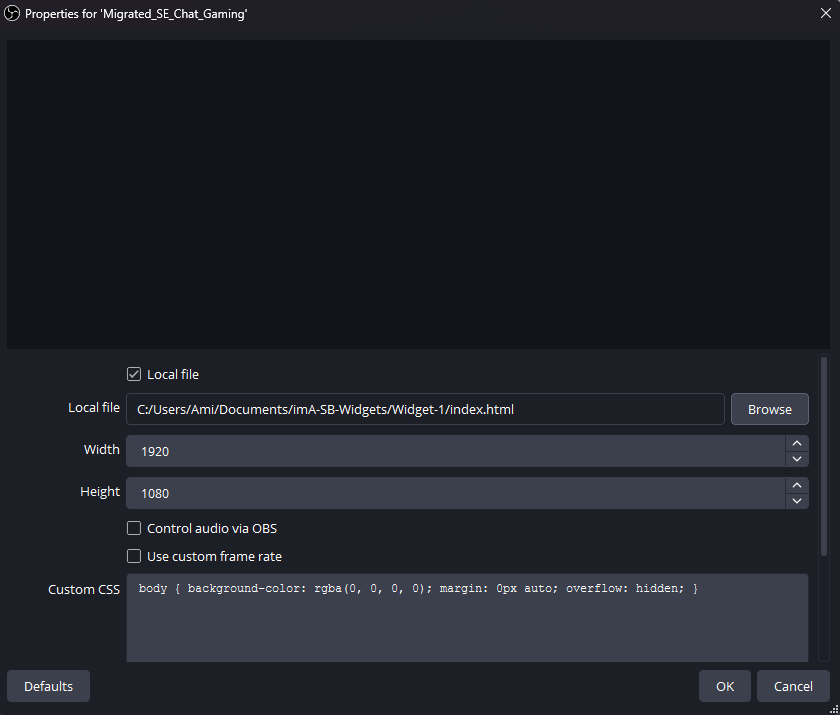
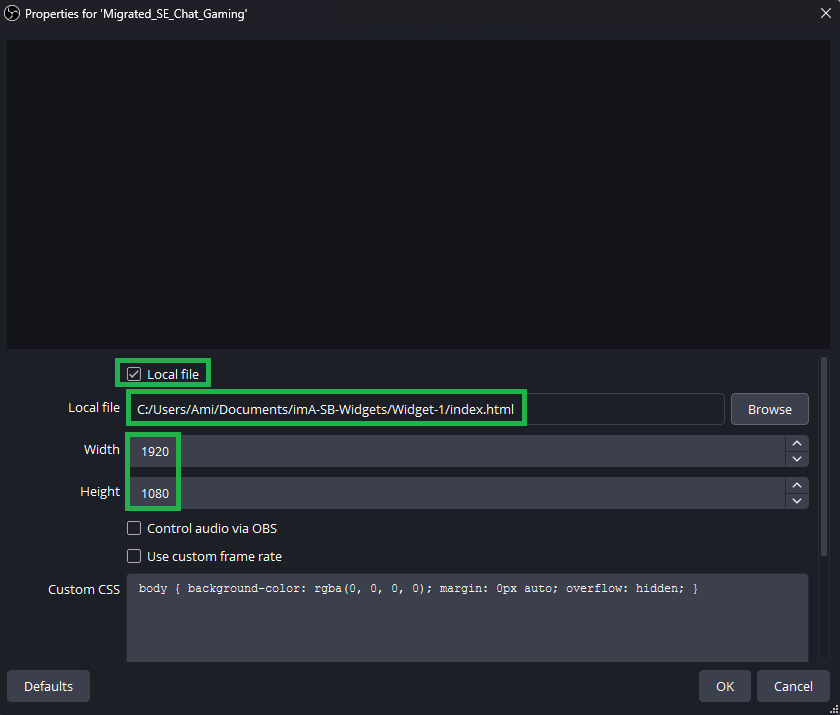
Updated images and README file

Changed region(s): [[0.1238, 0.4923, 0.619, 0.7385], [0.619, 0.5538, 0.65, 0.5846]]

diff --git a/README.md b/README.md
@@ -109,6 +109,29 @@ flowchart TB
   - [StreamerBot Client](https://github.com/StreamerBot/client) — official JS client for the StreamerBot WebSocket Server and API.
   - [profanity-cleaner](https://www.npmjs.com/package/profanity-cleaner) — used by the `SE_API.sanitize` implementation to filter chat message content.
 
+### StreamElements SessionData Replication
+- A `sessionData.js` file is generated alongside your widget files and loaded before the bridge, giving your widget the same `SESSION` object shape that many SE widgets read from (`onWidgetLoad` and `onSessionUpdate` events both include it).
+- On load, the widget asks StreamerBot for your current stats (via the `EmitTwitchChannelStats` Helper Action — see [Importing the SE2SB Helper Actions](#importing-the-se2sb-helper-actions)) and uses the response to populate the SessionData fields below.
+- Only a subset of the full SE SessionData schema currently carries real data — everything else in `SESSION` is initialized to an empty/zero default so widget code referencing it won't throw errors, it just won't update.
+
+| SessionData Key | What It Tracks | Source | Survives a Refresh? |
+|---|---|---|---|
+| `follower-total` | Current total follower count | StreamerBot (`EmitTwitchChannelStats`) | ✅ Yes |
+| `follower-latest` | Most recent follower's name | StreamerBot (`EmitTwitchChannelStats`) | ✅ Yes |
+| `follower-goal` | Follower goal target | StreamerBot (`Twitch-FetchGoals`) | ✅ Yes |
+| `subscriber-total` | Current total subscriber count | StreamerBot (`EmitTwitchChannelStats`) | ✅ Yes |
+| `subscriber-latest` | Most recent subscriber's name | StreamerBot (`EmitTwitchChannelStats`) | ✅ Yes |
+| `subscriber-goal` | Subscriber goal target | StreamerBot (`Twitch-FetchGoals`) | ✅ Yes |
+| `cheer-goal` | Bits/cheer goal target | StreamerBot (`Twitch-FetchGoals`) | ✅ Yes |
+| `follower-session` | Followers gained this browser session | In-memory counter, incremented as Follow events come in | ❌ No |
+| `subscriber-session` | All subs gained this session (new + resub + gifted) | In-memory counter | ❌ No |
+| `subscriber-new-session` | New subs this session | In-memory counter | ❌ No |
+| `subscriber-resub-session` | Resubs this session | In-memory counter | ❌ No |
+| `subscriber-gifted-session` | Gift subs this session | In-memory counter | ❌ No |
+| `cheer-session` | Bits cheered this session | In-memory counter | ❌ No |
+
+> **Note — why the session counters reset:** the `-session` counters live only in the widget's in-memory `SESSION` object. There's no local database or file backing them yet, so refreshing the widget's page (e.g. reloading the browser source in OBS) clears them back to zero. The `-total` and `-goal` values above don't have this problem, since they're re-fetched from StreamerBot fresh every time the widget loads.
+
 ### Simple File Imports
 - Import `.html`, `.js`, `.css`, `.json`, images, audio, and video files or even an entire folder or `.zip` file.
 - Warns if `.html` is missing or if more than one file shares the same extension.
@@ -149,16 +172,22 @@ The WebSocket Server is now running.
 
 ---
 
-## Importing `SetGlobal` StreamerBot Action
+## Importing the SE2SB Helper Actions
 
-> **Prerequisite:** This Action is required for widgets that use `SE_API.store.set()` to save values. Without it, those calls will silently do nothing.
+> **Prerequisite:** These Actions are required for widgets that use `SE_API.store.set()` and the [SessionData replication](#streamelements-sessiondata-replication) described above. Without them, those features will silently do nothing. You will only need to import them once.
 
-A SetGlobal Action is required for `SE_API.store.set()` to work correctly. You will only need to import this once.
+A single import now brings in a **Helper Actions** group containing 3 Actions:
+
+| Action | Purpose |
+|---|---|
+| `EmitTwitchChannelStats` | Fetches your current follower/subscriber totals and latest follower/subscriber, then sends them back to the widget on load to populate SessionData. |
+| `Twitch-FetchGoals` | Sub-action called by `EmitTwitchChannelStats` to pull your current follower, subscriber, and bits goal targets. |
+| `SetGlobal` | Backs `SE_API.store.set()` calls so widgets can persist values as StreamerBot global variables. |
 
 ### Step 1 — Open the Import dialog
 In StreamerBot, navigate to **Actions** and right-click anywhere in the actions list. Select **Import**.
 
-### Step 2 — Import the Action
+### Step 2 — Import the Actions
 Paste the import string below into the text field, then click **Import**.
 
 **Import string:**
@@ -166,10 +195,10 @@ Paste the import string below into the text field, then click **Import**.
[1 lines of base64/hex data omitted]
 ```
 
-![Importing the StreamerBot Action](Images/streamerbot_import_action_setglobal.png)
+![Importing the StreamerBot Helper Actions](Images/streamerbot_import_action_setglobal.png)
 
-### Step 3 — Confirm the Action appears
-After importing, you should see the **SE2SB — Set Global Variable** Action in your actions list. No additional configuration is needed.
+### Step 3 — Confirm the Actions appear
+After importing, you should see a **Helper Actions** group in your actions list containing all 3 Actions shown above. No additional configuration is needed.
 
 ![Imported Action in StreamerBot](Images/streamerbot_action_setglobal.png)
 
